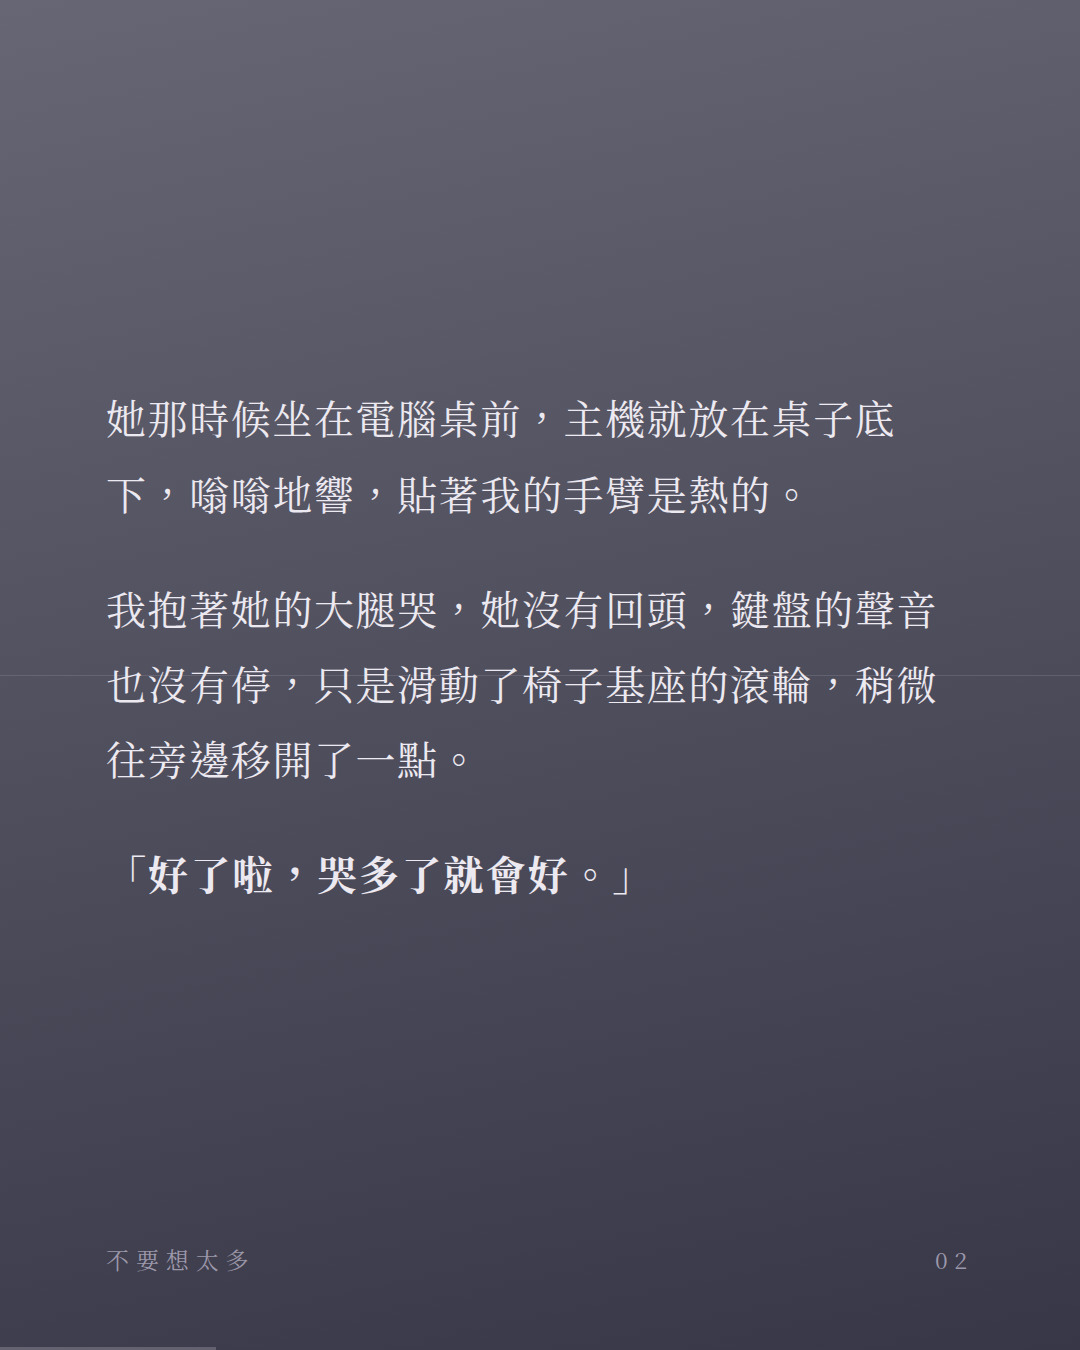
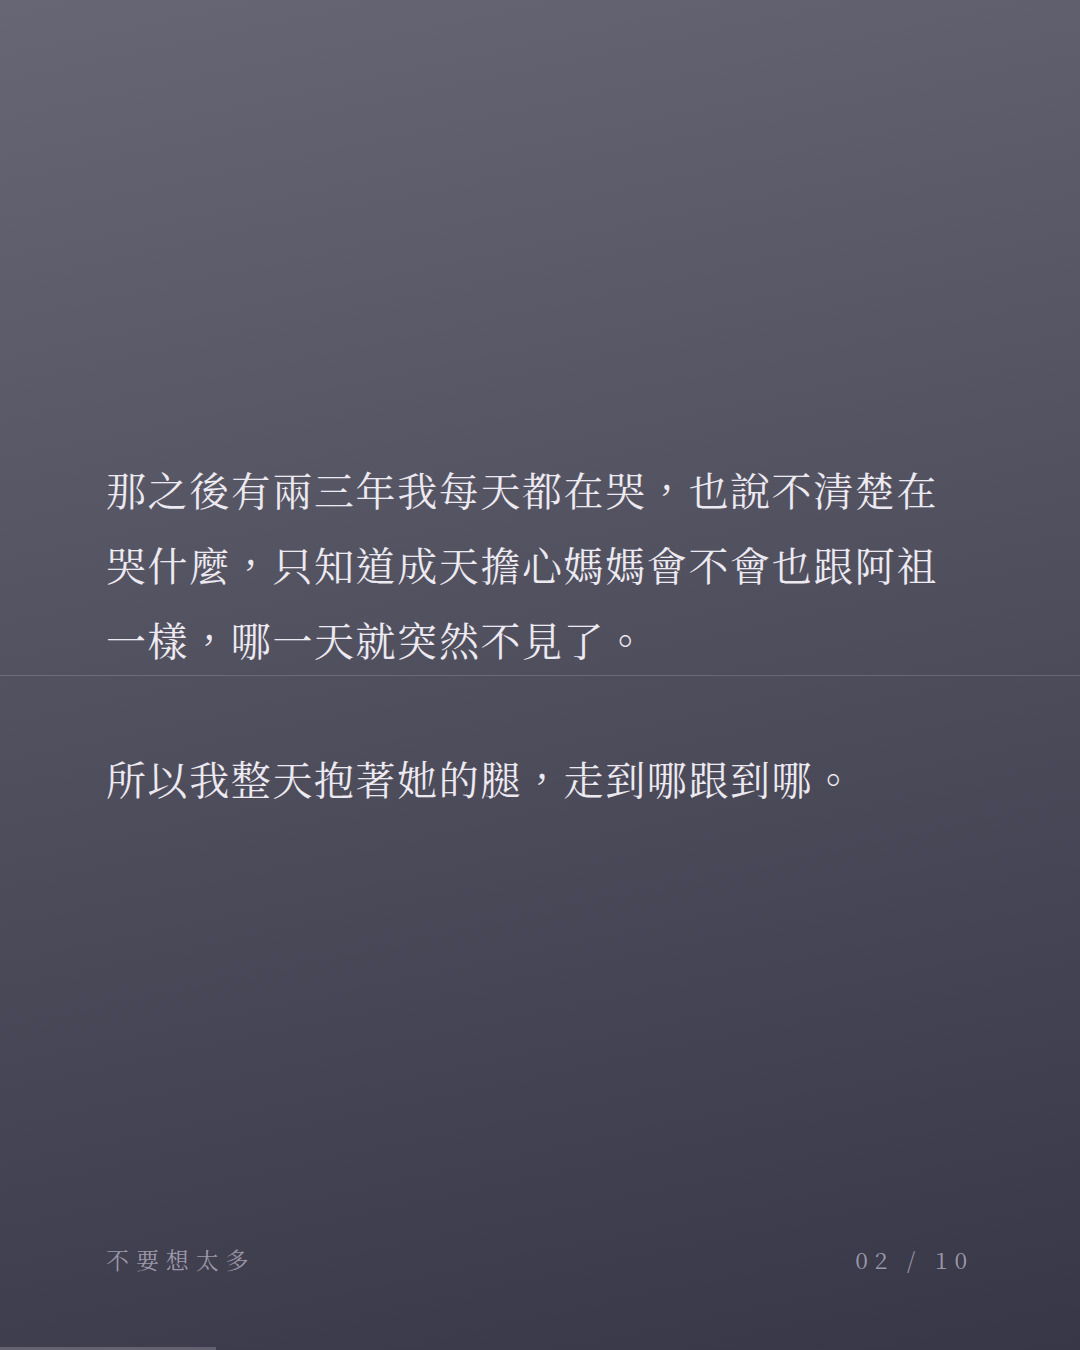
新版排版：封面、段距、頁碼、零粗體

diff --git a/posts/make_cards.py b/posts/make_cards.py
@@ -1,0 +1,125 @@
+#!/usr/bin/env python3
+"""
+季向晚 圖卡產生器
+用法： python3 make_cards.py 文稿.txt --series 想太多|英呎|身體 --out 資料夾
+文稿：一行 --- 分格；**粗體** 標落點句
+"""
+import sys, os, re, html, subprocess, shutil, argparse
+
+# 三個系列＝三個高度。地平線的位置就是你站的位置。
+SERIES = {
+    "想太多": {  # 童年與家庭 — 暮色，地平線在中間（平視）
+        "name": "不要想太多",
+        "top": (("#6b6a78", "#3b3a4a"), ("#4a4954", "#232230")),  # 起→迄
+        "fg": "#ece9f0", "sub": "#9c98aa", "line": 0.50,
+    },
+    "英呎": {    # 高空 — 稀薄的冷光，地平線壓很低（你在上面）
+        "name": "三萬英呎",
+        "top": (("#c9d4dd", "#9fb0c0"), ("#8c9cab", "#5d6b79")),
+        "fg": "#1c2630", "sub": "#54606d", "line": 0.80,
+    },
+    "身體": {    # 土 — 溫暖的陶土，地平線拉很高（你在地上）
+        "name": "身體記得",
+        "top": (("#d8cbb8", "#b9a68d"), ("#a08d74", "#6d5d4a")),
+        "fg": "#2a231a", "sub": "#6b5c49", "line": 0.22,
+    },
+}
+
+HTML = """<!doctype html><html><head><meta charset="utf-8"><style>
+*{{margin:0;padding:0;box-sizing:border-box}}
+html,body{{width:1080px;height:1350px}}
+body{{background:linear-gradient(168deg,{c1} 0%,{c2} 100%);
+  font-family:"Noto Serif CJK TC","Noto Serif TC",serif;color:{fg};
+  display:flex;flex-direction:column;justify-content:{vj};
+  padding:150px 106px 170px;position:relative;overflow:hidden}}
+.horizon{{position:absolute;left:0;right:0;top:{ly}px;height:1px;
+  background:{fg};opacity:.18}}
+p{{font-size:40px;line-height:1.88;letter-spacing:.04em;margin-bottom:64px;
+  position:relative;z-index:1}}
+p:last-child{{margin-bottom:0;margin-top:24px}}
+p:first-child{{margin-top:0}}
+strong{{font-weight:700;letter-spacing:.055em}}
+.cover p{{font-size:54px;line-height:1.8;margin-bottom:56px}}
+.cover{{justify-content:center;padding:200px 106px 200px}}
+.cover .meta span:first-child{{opacity:0}}
+.title{{margin-top:84px;font-size:27px;color:{sub};letter-spacing:.3em}}
+.tag{{position:absolute;top:104px;left:106px;font-size:25px;
+  color:{sub};letter-spacing:.42em}}
+.meta{{position:absolute;bottom:74px;left:106px;right:106px;
+  display:flex;justify-content:space-between;align-items:center;
+  font-size:23px;color:{sub};letter-spacing:.3em}}
+.bar{{position:absolute;bottom:0;left:0;height:3px;width:{pct}%;
+  background:{fg};opacity:.22}}
+</style></head><body class="{cls}">
+{tag}
+<div class="horizon"></div>
+{body}
+<div class="meta"><span>{series}</span><span>{n:02d} / {tot:02d}</span></div>
+<div class="bar"></div>
+</body></html>"""
+
+def chromium():
+    for root, _, fs in os.walk("/opt/pw-browsers"):
+        for f in fs:
+            if f in ("chrome", "headless_shell"):
+                return os.path.join(root, f)
+    for n in ("chromium", "chromium-browser", "google-chrome"):
+        q = shutil.which(n)
+        if q: return q
+    raise SystemExit("找不到 chromium")
+
+def mix(a, b, t):
+    """兩個 hex 之間插值 — 讓整組圖卡隨著滑動逐漸入夜"""
+    f = lambda h: tuple(int(h[i:i+2], 16) for i in (1, 3, 5))
+    x, y = f(a), f(b)
+    return "#%02x%02x%02x" % tuple(round(x[i] + (y[i]-x[i])*t) for i in range(3))
+
+def para(line):
+    s = html.escape(line.strip())
+    return "<p>" + re.sub(r'\*\*(.+?)\*\*', r'<strong>\1</strong>', s) + "</p>"
+
+def main():
+    ap = argparse.ArgumentParser()
+    ap.add_argument("src")
+    ap.add_argument("--series", default="想太多", choices=list(SERIES))
+    ap.add_argument("--out", default="out")
+    ap.add_argument("--title", default="")
+    a = ap.parse_args()
+
+    S = SERIES[a.series]
+    (s1, s2), (e1, e2) = S["top"]
+    raw = open(a.src, encoding="utf-8").read()
+    title = a.title
+    m = re.match(r'(?m)^#\s*title:\s*(.+?)\s*$\n+', raw)
+    if m:
+        title = title or m.group(1)
+        raw = raw[m.end():]
+    slides = [s.strip() for s in re.split(r'(?m)^---+\s*$', raw) if s.strip()]
+    total = len(slides)
+    os.makedirs(a.out, exist_ok=True)
+    cb = chromium()
+
+    for i, sl in enumerate(slides, 1):
+        t = (i-1)/max(total-1, 1)          # 0 → 1，整組逐格入夜
+        page = HTML.format(
+            c1=mix(s1, e1, t), c2=mix(s2, e2, t),
+            fg=S["fg"], sub=S["sub"], ly=round(1350*S["line"]),
+            body="\n".join(para(l) for l in sl.split("\n") if l.strip())
+                 + (('<div class="title">' + title + '</div>') if (i == 1 and title) else ""),
+            series=S["name"], n=i, tot=total, pct=round(i/total*100, 2),
+            vj="center" if len([l for l in sl.split("\n") if l.strip()]) <= 2 else "flex-start",
+            cls="cover" if i == 1 else "",
+            tag=('<div class="tag">' + S["name"] + '</div>') if i == 1 else "")
+        hp = os.path.join(a.out, f"_{i:02d}.html")
+        open(hp, "w", encoding="utf-8").write(page)
+        png = os.path.join(a.out, f"card_{i:02d}.png")
+        subprocess.run([cb, "--headless", "--disable-gpu", "--no-sandbox",
+                        "--hide-scrollbars", "--force-device-scale-factor=1",
+                        f"--screenshot={png}", "--window-size=1080,1350",
+                        "file://" + os.path.abspath(hp)],
+                       check=True, capture_output=True)
+        os.remove(hp)
+        print(f"  ✓ card_{i:02d}.png")
+    print(f"\n{S['name']}：{total} 張 → {a.out}/")
+
+main()

diff --git a/ops/make_cards.py b/ops/make_cards.py
@@ -30,23 +30,31 @@ HTML = """<!doctype html><html><head><meta charset="utf-8"><style>
 html,body{{width:1080px;height:1350px}}
 body{{background:linear-gradient(168deg,{c1} 0%,{c2} 100%);
   font-family:"Noto Serif CJK TC","Noto Serif TC",serif;color:{fg};
-  display:flex;flex-direction:column;justify-content:center;
+  display:flex;flex-direction:column;justify-content:{vj};
   padding:150px 106px 170px;position:relative;overflow:hidden}}
 .horizon{{position:absolute;left:0;right:0;top:{ly}px;height:1px;
-  background:{fg};opacity:.13}}
-p{{font-size:40px;line-height:1.88;letter-spacing:.04em;margin-bottom:40px;
+  background:{fg};opacity:.18}}
+p{{font-size:40px;line-height:1.88;letter-spacing:.04em;margin-bottom:64px;
   position:relative;z-index:1}}
-p:last-child{{margin-bottom:0}}
+p:last-child{{margin-bottom:0;margin-top:24px}}
+p:first-child{{margin-top:0}}
 strong{{font-weight:700;letter-spacing:.055em}}
+.cover p{{font-size:54px;line-height:1.8;margin-bottom:56px}}
+.cover{{justify-content:center;padding:200px 106px 200px}}
+.cover .meta span:first-child{{opacity:0}}
+.title{{margin-top:84px;font-size:27px;color:{sub};letter-spacing:.3em}}
+.tag{{position:absolute;top:104px;left:106px;font-size:25px;
+  color:{sub};letter-spacing:.42em}}
 .meta{{position:absolute;bottom:74px;left:106px;right:106px;
   display:flex;justify-content:space-between;align-items:center;
   font-size:23px;color:{sub};letter-spacing:.3em}}
 .bar{{position:absolute;bottom:0;left:0;height:3px;width:{pct}%;
   background:{fg};opacity:.22}}
-</style></head><body>
+</style></head><body class="{cls}">
+{tag}
 <div class="horizon"></div>
 {body}
-<div class="meta"><span>{series}</span><span>{n:02d}</span></div>
+<div class="meta"><span>{series}</span><span>{n:02d} / {tot:02d}</span></div>
 <div class="bar"></div>
 </body></html>"""
 
@@ -75,12 +83,18 @@ def main():
     ap.add_argument("src")
     ap.add_argument("--series", default="想太多", choices=list(SERIES))
     ap.add_argument("--out", default="out")
+    ap.add_argument("--title", default="")
     a = ap.parse_args()
 
     S = SERIES[a.series]
     (s1, s2), (e1, e2) = S["top"]
-    slides = [s.strip() for s in re.split(r'(?m)^---+\s*$',
-              open(a.src, encoding="utf-8").read()) if s.strip()]
+    raw = open(a.src, encoding="utf-8").read()
+    title = a.title
+    m = re.match(r'(?m)^#\s*title:\s*(.+?)\s*$\n+', raw)
+    if m:
+        title = title or m.group(1)
+        raw = raw[m.end():]
+    slides = [s.strip() for s in re.split(r'(?m)^---+\s*$', raw) if s.strip()]
     total = len(slides)
     os.makedirs(a.out, exist_ok=True)
     cb = chromium()
@@ -90,8 +104,12 @@ def main():
         page = HTML.format(
             c1=mix(s1, e1, t), c2=mix(s2, e2, t),
             fg=S["fg"], sub=S["sub"], ly=round(1350*S["line"]),
-            body="\n".join(para(l) for l in sl.split("\n") if l.strip()),
-            series=S["name"], n=i, pct=round(i/total*100, 2))
+            body="\n".join(para(l) for l in sl.split("\n") if l.strip())
+                 + (('<div class="title">' + title + '</div>') if (i == 1 and title) else ""),
+            series=S["name"], n=i, tot=total, pct=round(i/total*100, 2),
+            vj="center" if len([l for l in sl.split("\n") if l.strip()]) <= 2 else "flex-start",
+            cls="cover" if i == 1 else "",
+            tag=('<div class="tag">' + S["name"] + '</div>') if i == 1 else "")
         hp = os.path.join(a.out, f"_{i:02d}.html")
         open(hp, "w", encoding="utf-8").write(page)
         png = os.path.join(a.out, f"card_{i:02d}.png")
